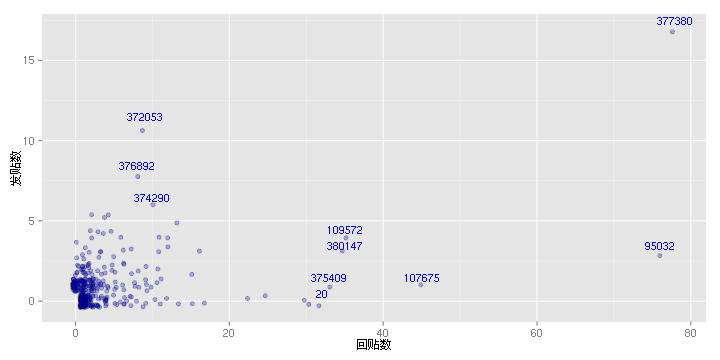
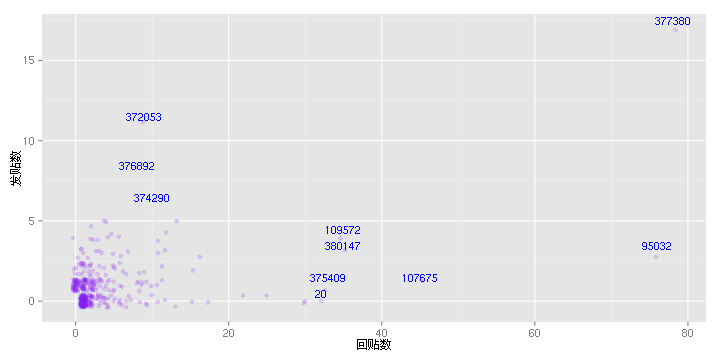
2013-06-15

diff --git a/README.md b/README.md
@@ -21,10 +21,7 @@
 
 * 每个人单回贴/发帖情况如下图，离群点标记其ID：
 
-
-```
-## Error: unused argument(s) (width = 0.5)
-```
+![plot of chunk unnamed-chunk-2](figure/unnamed-chunk-2.png) 
 
 
 * 文件 [cosdata.txt] (https://github.com/JiangXD/cos_stat/blob/master/cosdata.txt) 含所有自论坛创建以来的数据。(这个是自己从页面抓的，不尽准确，分析请用cosdata-mysql.csv)
